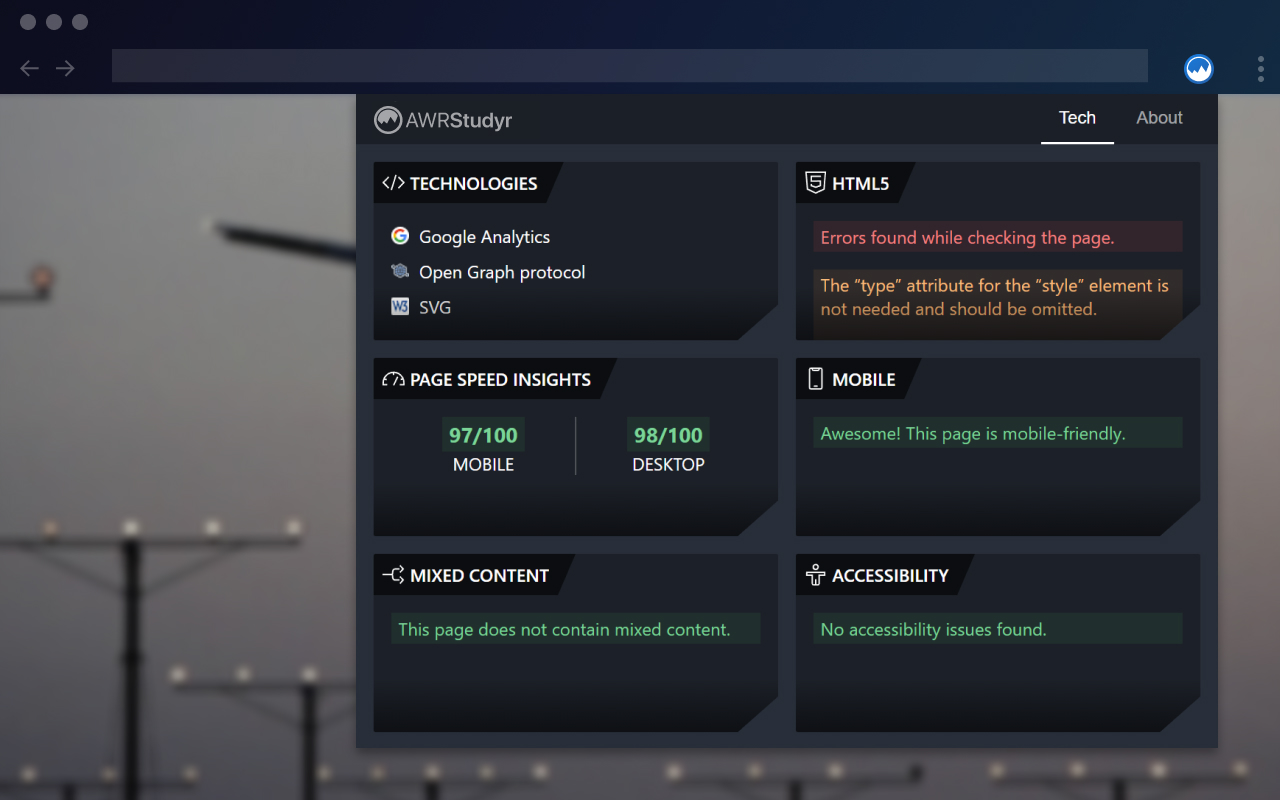
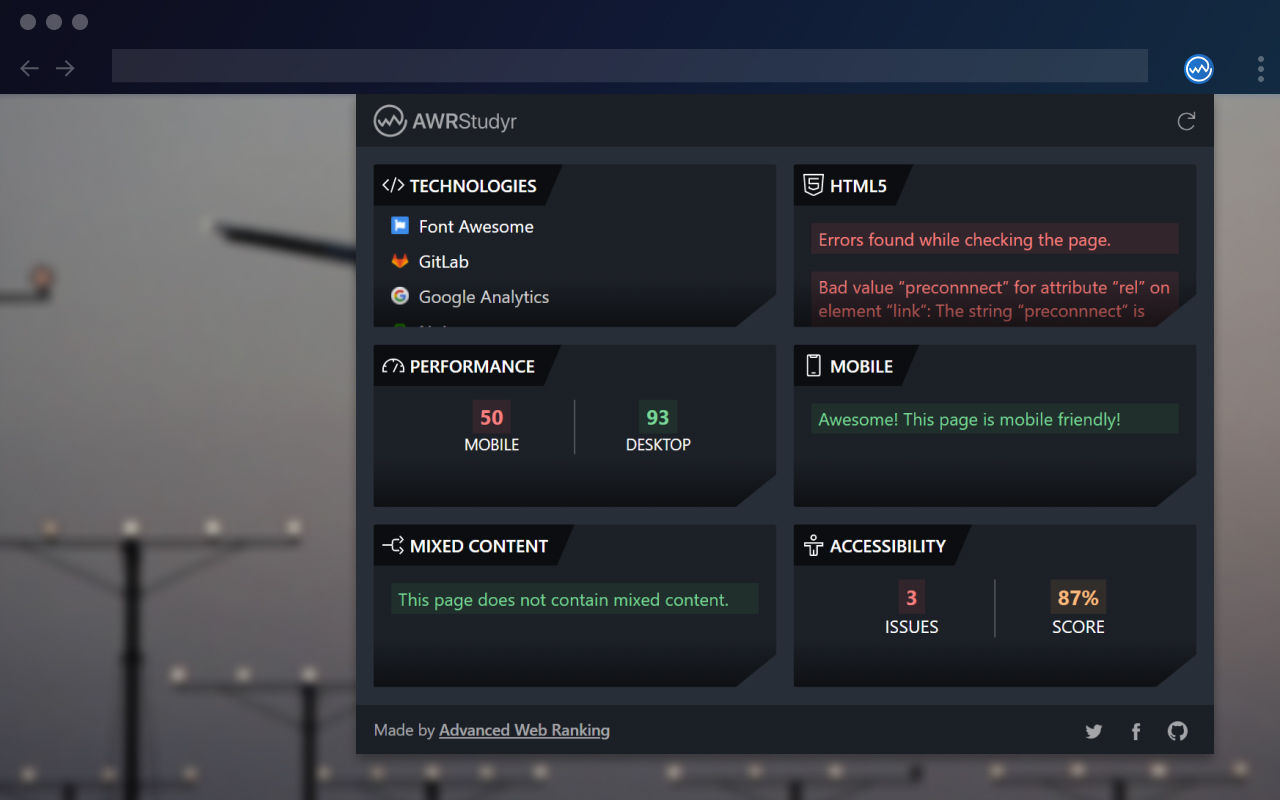
Updated readme.md

diff --git a/README.md b/README.md
@@ -5,7 +5,7 @@
 AWRStudyr is a browser extension by [AWR](https://www.advancedwebranking.com/) that offers powerful web technologies insights each time you open a new web page.
 
 - Mobile-friendly test
-- Google PageSpeed scores
+- Google Lighthouse scores
 - HTML5 validation
 - Accessibility checker
 - Mixed content detection
